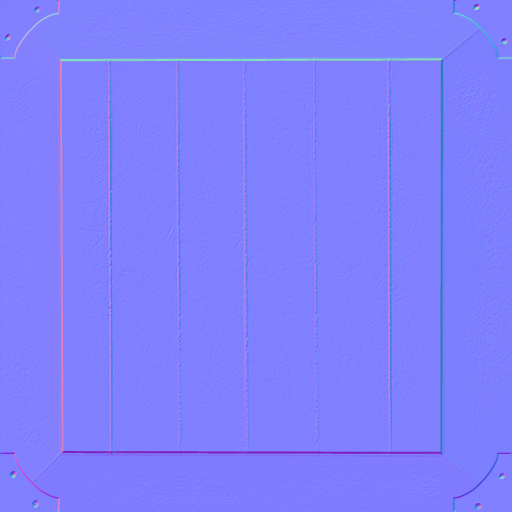
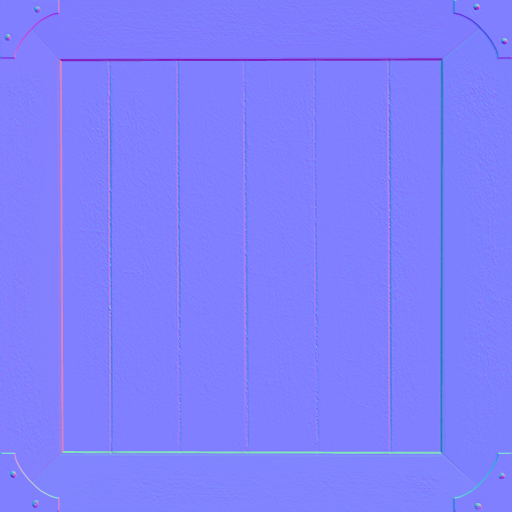
Fix normals

diff --git a/src/asset_processing.rs b/src/asset_processing.rs
@@ -9,7 +9,7 @@ use crate::third_party::bevy_trenchbroom::Worldspawn;
 
 pub(super) fn plugin(app: &mut App) {
     app.add_systems(Update, configure_textures);
-    app.add_observer(configure_gltfs_after_trenchbroom);
+    app.add_observer(configure_level_meshes_after_trenchbroom);
 }
 
 fn configure_textures(
@@ -55,7 +55,7 @@ fn configure_textures(
     }
 }
 
-fn configure_gltfs_after_trenchbroom(
+fn configure_level_meshes_after_trenchbroom(
     trigger: Trigger<SceneCollidersReady>,
     world_spawn: Query<(), With<Worldspawn>>,
     children: Query<&Children>,
@@ -78,6 +78,10 @@ fn configure_gltfs_after_trenchbroom(
         let Some(mesh) = meshes.get_mut(mesh) else {
             continue;
         };
+
+        if let Err(e) = mesh.generate_tangents() {
+            warn!("Failed to generate tangents for mesh: {e}");
+        }
 
         mesh.asset_usage = RenderAssetUsages::RENDER_WORLD;
     }

diff --git a/src/gameplay/player/camera.rs b/src/gameplay/player/camera.rs
@@ -9,7 +9,9 @@ use avian_pickup::prelude::*;
 use avian3d::prelude::*;
 #[cfg(feature = "native")]
 use bevy::core_pipeline::{
-    bloom::Bloom, experimental::taa::TemporalAntiAliasing, prepass::DepthPrepass,
+    bloom::Bloom,
+    experimental::taa::TemporalAntiAliasing,
+    prepass::{DepthPrepass, NormalPrepass},
 };
 use bevy::{
     core_pipeline::tonemapping::Tonemapping,
@@ -110,6 +112,7 @@ fn spawn_view_model(
                     Bloom::NATURAL,
                     TemporalAntiAliasing::default(),
                     DepthPrepass,
+                    NormalPrepass,
                     Msaa::Off,
                     ScreenSpaceAmbientOcclusion::default(),
                     ShadowFilteringMethod::Temporal,

diff --git a/scripts/prepare_textures.py b/scripts/prepare_textures.py
@@ -68,6 +68,9 @@ def process_textures():
                             "8",
                             "-alpha",
                             "on",
+                            "-channel",
+                            "G",
+                            "-negate",
                             normal_map_path,
                         ]
                     )
